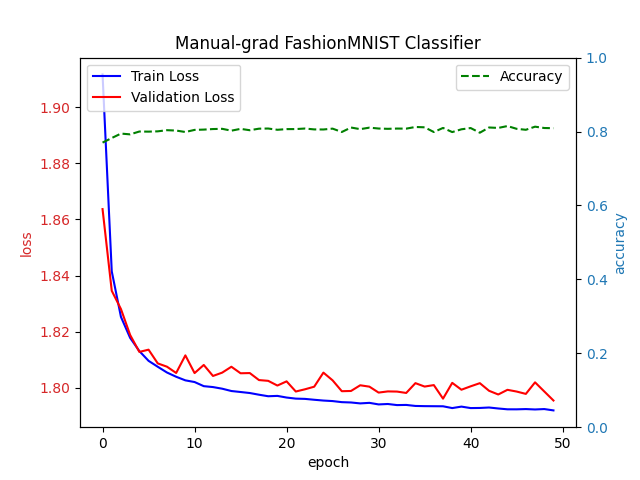
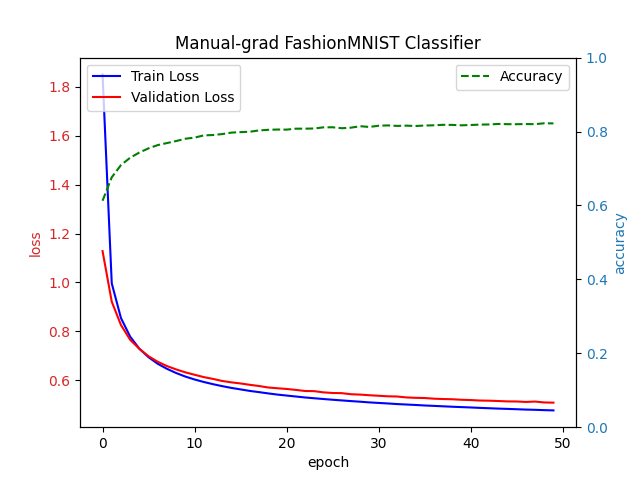
[bugfix - ch4] Fix derivative calculation in mannual grad classifier

diff --git a/chapter-4_linear-neural-networks-for-classification/manual_grad_image_classifier/manual_grad_image_classifier.py b/chapter-4_linear-neural-networks-for-classification/manual_grad_image_classifier/manual_grad_image_classifier.py
@@ -162,7 +162,8 @@ class ManualGradClassifierModel(nn.Module):
         # Shape of cross_entropy_grad
         #   = num_rows * num_classes
         #
-        cross_entropy_grad = y_logits_pred - y
+        y_pred = nn.functional.softmax(y_logits_pred)
+        cross_entropy_grad = y_pred - y
         batch_size = X.shape[0]
 
         #
